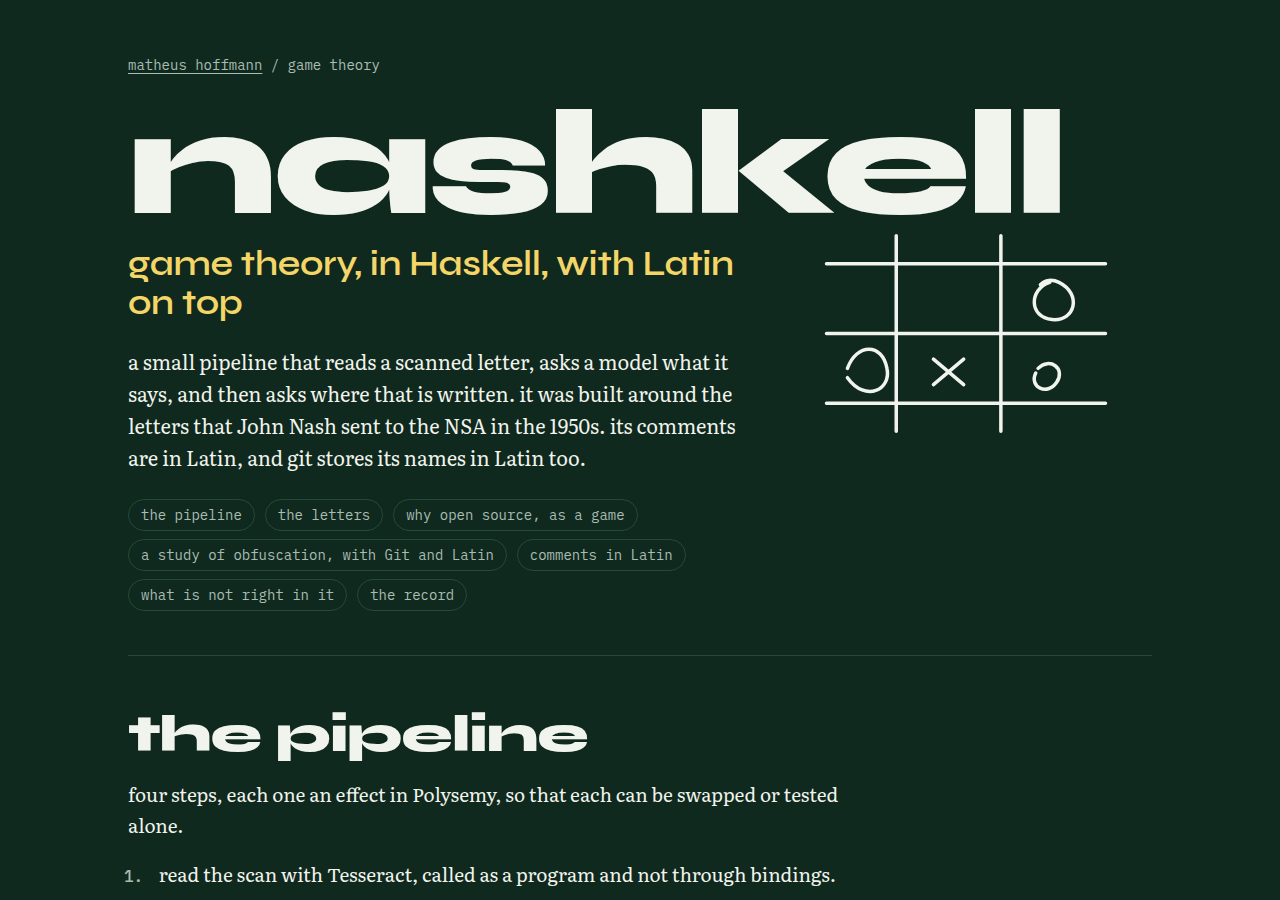
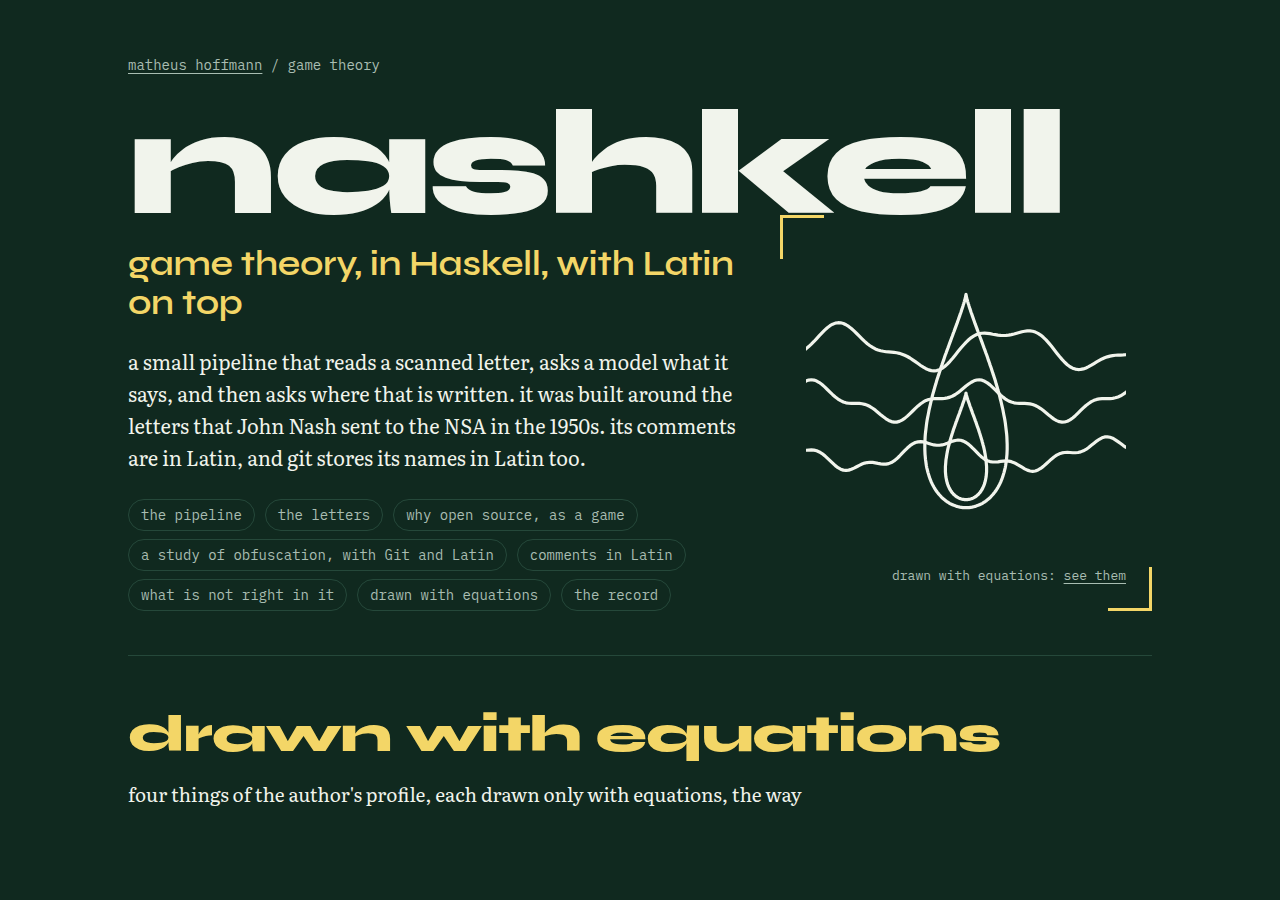
site: the equation drawings in picasso's manner, on the cover and right after it
The drawings made of equations were at the end of the page, in boxes. Now the
cover's picture is the flame over the sea, drawn with their own equations, in a
broken frame of two corners, as picasso's covers have one; the section of the
four drawings comes right after the cover; and each drawing stands in two
chalk corners, a line and not a box. The title may shrink on a small screen.

diff --git a/site/static/style.css b/site/static/style.css
@@ -18,7 +18,7 @@ p, li, dd { max-width: 66ch; }
 
 .cover { display: grid; grid-template-columns: minmax(0, 1.25fr) minmax(0, .75fr); gap: 32px; align-items: center; padding: 56px 0 44px; border-bottom: 1px solid var(--line); }
 .where { margin: 0 0 22px; font: 400 14px/1.4 var(--data); color: var(--dust); }
-h1 { margin: 0; font: 800 clamp(60px, 13vw, 150px)/.88 var(--display); letter-spacing: -.035em; }
+h1 { margin: 0; font: 800 clamp(40px, 14vw, 150px)/.88 var(--display); overflow-wrap: anywhere; letter-spacing: -.035em; }
 .epithet { margin: 14px 0 0; font: 600 clamp(22px, 3.4vw, 36px)/1.1 var(--display); color: var(--yellow); letter-spacing: -.01em; }
 .lede { margin: 22px 0 0; font-size: 20px; }
 .jump { display: flex; flex-wrap: wrap; gap: 8px 10px; margin-top: 26px; font: 400 14px/1.3 var(--data); }
@@ -72,9 +72,13 @@ footer { padding: 36px 0 0; font-size: 16px; color: var(--dust); }
 /* Drawn with equations: each picture is its curves, in yellow chalk on a darker board, with the
    equations under it in mono, as a calculator would show them. */
 .plots { display: grid; grid-template-columns: repeat(2, minmax(0, 1fr)); gap: 22px; margin: 26px 0; }
-.plot { margin: 0; padding: 18px; background: var(--slate); border: 1px solid var(--line); border-radius: 18px; }
+/* A line, not a box: each drawing stands in a broken frame, two corners in chalk. */
+.plot { position: relative; margin: 0; padding: 22px 22px 18px; }
+.plot::before, .plot::after { content: ""; position: absolute; width: 34px; height: 34px; border-color: var(--dust); border-style: solid; }
+.plot::before { top: 0; left: 0; border-width: 2px 0 0 2px; }
+.plot::after { right: 0; bottom: 0; border-width: 0 2px 2px 0; }
 .plot svg { display: block; width: 100%; height: auto; aspect-ratio: 1; }
-.plot path { fill: none; stroke: var(--yellow); stroke-width: 2.4; stroke-linecap: round; stroke-linejoin: round; }
+.plot path { fill: none; stroke: var(--yellow); stroke-width: 3; stroke-linecap: round; stroke-linejoin: round; }
 #draw-boat path { stroke: #F5A35C; }
 #draw-sea path { stroke: var(--blue); }
 .plot figcaption { display: flex; flex-direction: column; gap: 4px; margin: 10px 0 0; font-size: 16px; }
@@ -82,3 +86,14 @@ footer { padding: 36px 0 0; font-size: 16px; color: var(--dust); }
 .plot figcaption span { color: var(--dust); }
 .plot pre { margin: 12px 0 0; padding: 12px 14px; font-size: 13px; white-space: pre-wrap; }
 @media (max-width: 760px) { .plots { grid-template-columns: 1fr; } }
+
+/* The cover's picture: the flame over the sea, in a broken frame, as picasso's covers have one. */
+.cover-plot { position: relative; margin: 0; padding: 26px; }
+.cover-plot svg { display: block; width: 100%; height: auto; aspect-ratio: 1; }
+.cover-plot path { fill: none; stroke: var(--chalk); stroke-width: 3; stroke-linecap: round; stroke-linejoin: round; }
+.cover-plot .corner { position: absolute; width: 44px; height: 44px; border-color: var(--yellow); border-style: solid; }
+.cover-plot .tl { top: 0; left: 0; border-width: 3px 0 0 3px; }
+.cover-plot .br { right: 0; bottom: 0; border-width: 0 3px 3px 0; }
+.cover-plot figcaption { margin-top: 6px; font: 400 13px/1.4 var(--data); color: var(--dust); text-align: right; }
+/* The title runs wide: the cover's picture starts under it, so the frame does not touch a letter. */
+@media (min-width: 761px) { .cover-plot { align-self: end; margin-top: 130px; } }
